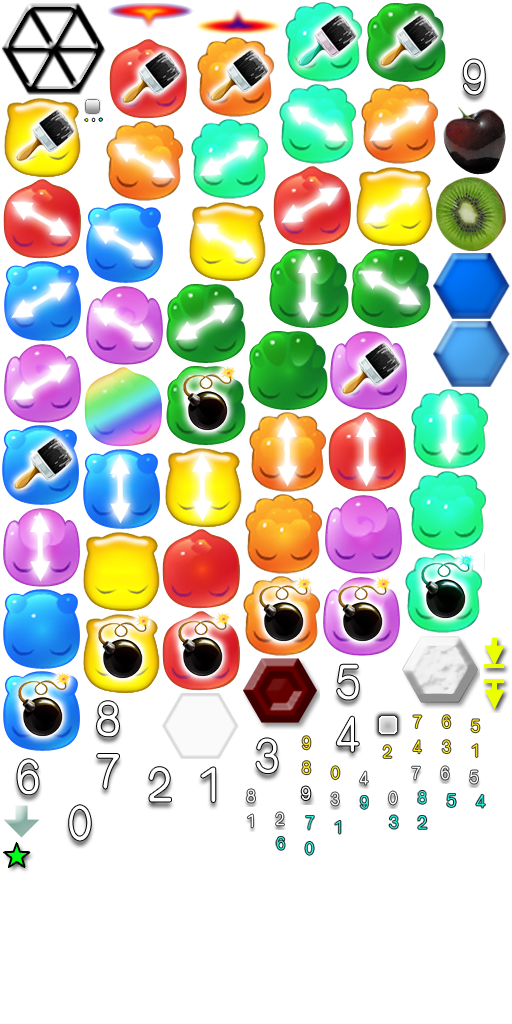
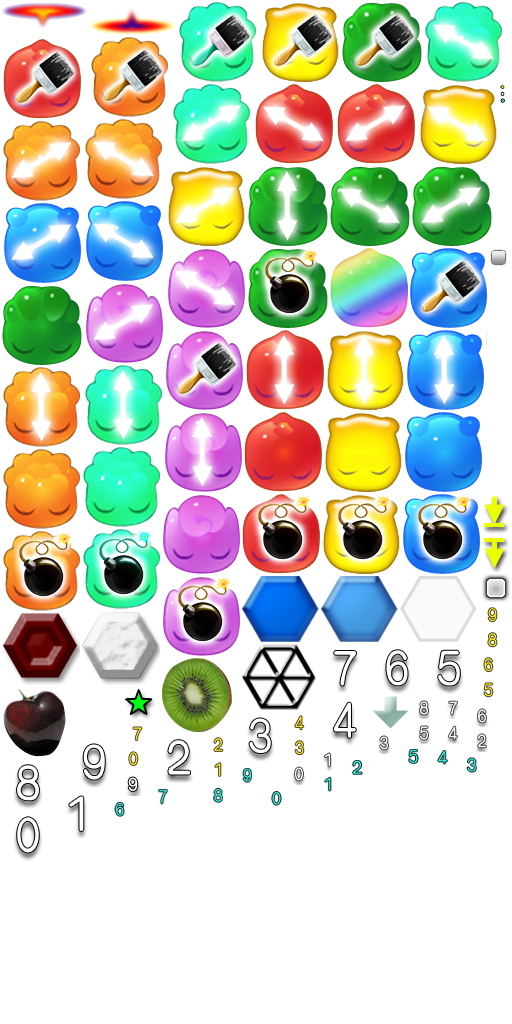
笼子功能

diff --git a/ClientProject/Assets/CSharpScripts/GameLogic.cs b/ClientProject/Assets/CSharpScripts/GameLogic.cs
@@ -466,6 +466,11 @@ public class GameLogic {
                     UIDrawer.Singleton.DrawSprite("Grid" + i + "," + j, GetXPos(i), GetYPos(i, j), "Grid"); 
                 }
 
+                if (PlayingStageData.CheckFlag(i, j, GridFlag.Cage))
+                {
+                    UIDrawer.Singleton.DrawSprite("Cage" + i + "," + j, GetXPos(i), GetYPos(i, j), "Cage", 3);
+                }
+
                 //绘制水果出口
                 if (PlayingStageData.Target == GameTarget.BringFruitDown && PlayingStageData.CheckFlag(i, j, GridFlag.FruitExit))
                 {
@@ -1112,6 +1117,7 @@ public class GameLogic {
         if (totalSameCount == 3)		//总共就消了3个
         {
             EatBlock(position);
+            m_tempBlocks[position.x, position.y] = true;
         }
         //根据结果来生成道具////////////////////////////////////////////////////////////////////////
 		else if (maxCountInSameDir >= 5)		//若最大每行消了5个
@@ -1281,14 +1287,6 @@ public class GameLogic {
         {
             return;
         }
-        for (int i = 0; i <= position.y; i++)
-        {
-            if (m_blocks[position.x, i]!=null)
-            {
-                m_blocks[position.x, i].isCanMove = false;      //上方所有块都不能移动
-            }
-        }
-        m_blocks[position.x, position.y].Eat();			//吃掉当前块
 
         if (m_dropDownEndTime > 0 && helpP1 != null)
         {
@@ -1309,16 +1307,19 @@ public class GameLogic {
         {
             PlayingStageData.ClearFlag(position.x, position.y, GridFlag.Stone);
             m_blocks[position.x, position.y].isLocked = false;
+            return;
         }
         else if (PlayingStageData.CheckFlag(position.x, position.y, GridFlag.Chocolate))
         {
             PlayingStageData.ClearFlag(position.x, position.y, GridFlag.Chocolate);
             m_blocks[position.x, position.y].isLocked = false;
+            return;
         }
         else if (PlayingStageData.CheckFlag(position.x, position.y, GridFlag.Cage))
         {
             PlayingStageData.ClearFlag(position.x, position.y, GridFlag.Cage);
             m_blocks[position.x, position.y].isLocked = false;
+            return;
         }
         else if (PlayingStageData.CheckFlag(position.x, position.y, GridFlag.JellyDouble))
         {
@@ -1329,6 +1330,15 @@ public class GameLogic {
         {
             PlayingStageData.ClearFlag(position.x, position.y, GridFlag.Jelly);
         }
+
+        for (int i = 0; i <= position.y; i++)
+        {
+            if (m_blocks[position.x, i] != null)
+            {
+                m_blocks[position.x, i].isCanMove = false;      //上方所有块都不能移动
+            }
+        }
+        m_blocks[position.x, position.y].Eat();			//吃掉当前块
 
         switch (m_blocks[position.x, position.y].special)
         {

diff --git a/ClientProject/Assets/CSharpScripts/CapBlock.cs b/ClientProject/Assets/CSharpScripts/CapBlock.cs
@@ -52,7 +52,7 @@ public class CapBlock
         if ((flag & (int)GridFlag.Cage) > 0)
         {
             //m_blockSprite.spriteName = "Block3-" + (int)(color - TBlockColor.EColor_None);
-            //isLocked = true;
+            isLocked = true;
 			//return;
         }
 
